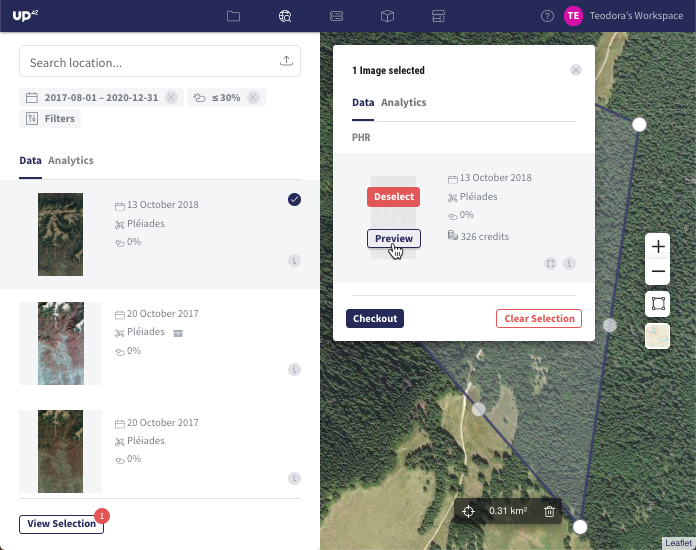
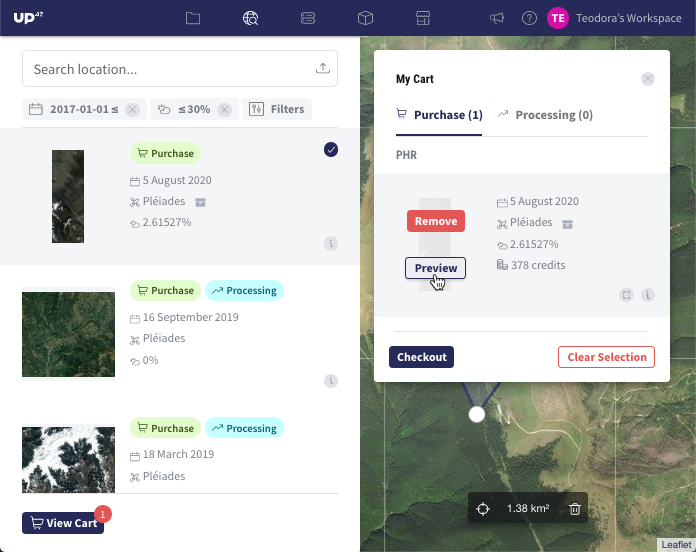
updated catalog

diff --git a/source/getting-started/catalog-search.rst b/source/getting-started/catalog-search.rst
@@ -11,9 +11,9 @@ Catalog
 Introduction
 ------------
 
-This section will guide you through searching for various geospatial data using the **Catalog**. On the left sidebar, two tabs are displayed: **Data** and **Analytics**.
+This section will guide you through searching for various geospatial data using the `Catalog <https://console.up42.com/catalog>`_. On the left sidebar, two labels are displayed next to the images: **Purchase** and **Processing**.
 
-The **Data** tab returns only scenes available for ordering and includes images from all types of storage: long-term archive and online archive. The available data sources are displayed in the table below.
+The **Purchase** label (in green) returns only scenes available for purchasing and downloading via Storage. These images originate from all types of storage: long-term archive and online archive. The available data sources that can be purchased are displayed in the table below.
 
 .. list-table::
    :widths: 25
@@ -23,7 +23,7 @@ The **Data** tab returns only scenes available for ordering and includes images 
    * - Pléiades
    * - SPOT 6/7
 
-The **Analytics** tab returns images that can be used in workflows and downloaded or processed during job runs. This tab includes images from the online archive. The available data sources are displayed in the table below.
+The **Processing** label (in blue) returns images that can be used for downloading or further combined with a processing algorithm in workflows. These images originate from the online archive. The available data sources are displayed in the table below.
 
 .. list-table::
    :widths: 25
@@ -34,10 +34,10 @@ The **Analytics** tab returns images that can be used in workflows and downloade
    * - SPOT 6/7
    * - Sentinel-1
    * - Sentinel-2
+   * - Sentinel-3
    * - Sentinel-5
 
-.. note:: For Pléiades and SPOT 6/7 data sources, the ordering process via Data tab provides more scenes than Analytics tab,
-          since it includes images from the long-term archive (LTA).
+.. note:: For Pléiades and SPOT 6/7 data sources, more images have the label *Purchase* than *Processing*, since this category includes images from the long-term archive (LTA).
 
 Long-term archive and online archive
 ------------------------------------
@@ -51,17 +51,17 @@ The differences between the long-term archive and online archive are described i
    * - Tab
      - Archive type
      - Description
-   * - Data
+   * - Purchase
      - Long-term archive
      - the complete Pléiades and SPOT 6/7 image collection, regardless of incidence angle or cloud cover.
-   * - Analytics
+   * - Processing
      - Online archive (Living Library)
      - a selection of Pléiades and SPOT 6/7 images that were acquired less than 2 years ago, have an incidence angle of maximum 30 degrees and up to 15% cloud cover (Pléiades) or up to 25% cloud cover (SPOT 6/7).
 
-Data tab: order images
+Purchase: order images
 ----------------------
 
-The ordering process via the **Data** tab allows you to easily get Pléiades and SPOT 6/7 satellite images from both the long-term archive and online archive. The steps are described below.
+The ordering process based on the *Purchase* category allows you to easily get Pléiades and SPOT 6/7 satellite images from both the long-term archive and online archive. The steps are described below.
 
 1. Go to the `Catalog <https://console.up42.com/catalog>`_, where you can either upload your Area of Interest or draw a new AOI.
 
@@ -77,24 +77,24 @@ The ordering process via the **Data** tab allows you to easily get Pléiades and
    :align: center
    :alt: step01_Data_upload_AOI
 
-2. After uploading/drawing the AOI, you can adjust the following filters: *Date*, *Cloud Coverage*, and *Data Source*.
+2. After uploading/drawing the AOI, you can adjust the following filters: *Date*, *Cloud Coverage*, *Usage Type* and *Data Source*. In this case, the *Usage Type* is set to *Purchase*.
 
 .. figure:: _assets/catalog/data/step02_Data_adjust_filters.png
    :align: center
    :alt: step02_Data_adjust_filters
 
-3. In the left sidebar, the list of available images is displayed and you can select the images you want to purchase.
+3. In the left sidebar, the list of available images is displayed and you can add images to the cart.
 
 .. figure:: _assets/catalog/data/step03_Data_select_image.png
    :align: center
    :alt: step03_Data_select_image
 
-.. tip:: In the Data tab, notice the |long-term-archive| icon displayed next to the available scenes. This
-         icon  indicates that the scenes are stored in the long-term archive. The LTA includes more data than the online archive, but the duration for processing these orders takes longer time (up to 24 hours).
+.. tip:: When an image has the label *Purchase*, notice the |long-term-archive| icon displayed next to the
+         available scenes. This icon  indicates that the scenes are stored in the long-term archive. The LTA includes more data than the online archive, but the duration for processing these orders takes longer time (up to 24 hours).
 
          .. |long-term-archive| image:: _assets/catalog/data/archive_icon.png
 
-4. Click on *View Selection*, in order to visualize the preview of the selected image(s) and the estimated price of each image intersecting your AOI. Please note that only the segment of the image that intersects your AOI will be considered in the pricing, not the entire AOI.
+4. Click on *View Cart*, in order to visualize the preview of the selected image(s) and the estimated price of each image intersecting your AOI. Please note that only the segment of the image that intersects your AOI will be considered in the pricing, not the entire AOI.
 
 .. figure:: _assets/catalog/data/step04_Data_view_selection.png
    :align: center
@@ -116,7 +116,7 @@ The ordering process via the **Data** tab allows you to easily get Pléiades and
    :align: center
    :alt: step07_Data_checkout
 
-7. If you want to proceed with purchasing the images, click on *Confirm Purchase*. The order is officially placed and you are charged with the UP42 credits. The delivery of the images can take a few minutes (online archive) or up to 24 hours (long-term archive).
+7. If you want to proceed with purchasing the images, click on *Order for XXX Credits*. The order is officially placed and you are charged with the UP42 credits. The delivery of the images can take a few minutes (online archive) or up to 24 hours (long-term archive). If you want to continue searching for images on the catalog, click on *Continue Browsing*
 
 .. figure:: _assets/catalog/data/step08_Data_confirmPurchase.png
    :align: center
@@ -136,10 +136,10 @@ The ordering process via the **Data** tab allows you to easily get Pléiades and
    :align: center
    :alt: step11_Data_order_download
 
-Analytics tab: integrate images into workflows
-----------------------------------------------
+Processing: integrate images into workflows
+-------------------------------------------
 
-The **Analytics** tab returns data that can further be integrated into existing workflows and downloaded via job runs. The steps are described below.
+The *Processing* category returns data that can further be integrated into existing workflows and processed via job runs. The steps are described below.
 
 1. This process assumes that you already built workflows by following the steps 1-10 from the article `Build the first UP42 Workflow <https://docs.up42.com/getting-started/first-workflow.html>`_.
 2. In the job configuration window, click on the Catalog icon from the UP42 menu bar:
@@ -158,21 +158,21 @@ The **Analytics** tab returns data that can further be integrated into existing 
    :align: center
    :alt: step01_Analytics_upload_AOI
 
-4. After uploading/drawing the AOI, you can adjust the following filters: *Date*, *Cloud Coverage* and *Data Source*.
+4. After uploading/drawing the AOI, you can adjust the following filters: *Date*, *Cloud Coverage*, *Usage Type* and *Data Source*. In this case, the *Usage Type* is set to *Processing*.
 
 .. figure:: _assets/catalog/analytics/step02_Analytics_adjust_filters.png
    :align: center
    :alt: step02_Analytics_adjust_filters
 
-.. note:: The **Analytics** tab provides more Data Sources: **Pléiades**, **SPOT 6/7**, **Sentinel-1**, **Sentinel-2**, **Sentinel-3** and **Sentinel-5**.
+.. note:: The **Processing** category provides more Data Sources: **Pléiades**, **SPOT 6/7**, **Sentinel-1**, **Sentinel-2**, **Sentinel-3** and **Sentinel-5**.
 
-5. In the left sidebar, the list of available images is displayed and you can select the image(s) to be included in the workflow.
+5. In the left sidebar, the list of available images is displayed and you can select the image(s) to be included in the workflow by clicking on *Add to Cart*.
 
 .. figure:: _assets/catalog/analytics/step03_Analytics_select_image.png
    :align: center
    :alt: step03_Analytics_select_image
 
-6. Click on *View Selection*, in order to visualize the preview of the selected image(s) and integrate them into a workflow.
+6. Click on *View Cart*, in order to visualize the preview of the selected image(s) and integrate them into a workflow.
 
 .. figure:: _assets/catalog/analytics/step04_Analytics_view_selection.png
    :align: center
@@ -190,33 +190,37 @@ The **Analytics** tab returns data that can further be integrated into existing 
 
 8. Before including the image(s) in the workflow, click on *View Parameters* to view the geometry and the image filenames in JSON format.
 
-.. figure:: _assets/catalog/analytics/step07_Analytics_view_parameters.png
+.. figure:: _assets/catalog/analytics/step07_Analytics_click_view_parameters.png
    :align: center
-   :alt: step07_Analytics_view_parameters
+   :alt: step07_Analytics_click_view_parameters
 
-9. Include the selected image(s) in your workflow by clicking on *Configure Job*.
-
-.. figure:: _assets/catalog/analytics/step08_Analytics_configure_job.png
+.. figure:: _assets/catalog/analytics/step08_Analytics_view_parameters.png
    :align: center
-   :alt: step08_Analytics_configure_job
+   :alt: step08_Analytics_view_parameters
+
+9. Go back to the catalog view and include the selected image(s) in your workflow by clicking on *Configure Job*.
+
+.. figure:: _assets/catalog/analytics/step09_Analytics_configure_job.png
+   :align: center
+   :alt: step09_Analytics_configure_job
 
 10. The image will only be included in existing workflows, which are stored in your projects. First, your existing projects will be listed. Click on the desired project and a list of workflows will appear. Choose the workflow where you would like to include the image(s).
 
-.. figure:: _assets/catalog/analytics/step09_Analytics_select_project.png
+.. figure:: _assets/catalog/analytics/step10_Analytics_select_project.png
    :align: center
-   :alt: step09_Analytics_select_project
+   :alt: step10_Analytics_select_project
 
-.. figure:: _assets/catalog/analytics/step10_Analytics_select_workflow.png
+.. figure:: _assets/catalog/analytics/step11_Analytics_select_workflow.png
    :align: center
-   :alt: step10_Analytics_select_workflow
+   :alt: step11_Analytics_select_workflow
 
 .. note::
    Please note that only the compatible workflows will be displayed. In this example, if your workflow includes a different data block from Pléiades (SPOT 6/7, Sentinel-1, Sentinel-2 etc.), it will not be displayed in the list, because it is not compatible with the Pléiades images you selected in the Catalog. Since we already created a workflow *Normalized Difference Vegetation Index* based on a Pléiades data block, it is displayed in the list.
 
-11. Once you click on the workflow, you will be redirected to the job configuration window. The image filename is now integrated in the job parameters under the variable ``ids``. The price will be estimated below the job parameters displayed in JSON format. Run the job and download the outputs according to steps 12-19 from the article `Build the first UP42 Workflow <https://docs.up42.com/getting-started/first-workflow.html>`_.
+11. Once you click on the workflow, you will be redirected to the job configuration window. The asset ID of the image is now integrated in the job parameters under the variable ``ids``. The price will be estimated below the job parameters displayed in JSON format. Run the job and download the outputs according to steps 12-19 from the article `Build the first UP42 Workflow <https://docs.up42.com/getting-started/first-workflow.html>`_.
 
-.. figure:: _assets/catalog/analytics/step11_Analytics_job_config_window.png
+.. figure:: _assets/catalog/analytics/step12_Analytics_job_config_window.png
    :align: center
-   :alt: step11_Analytics_job_config_window
+   :alt: step12_Analytics_job_config_window
 
 Congratulations! You successfully ran a job using the data selected from the Catalog.
